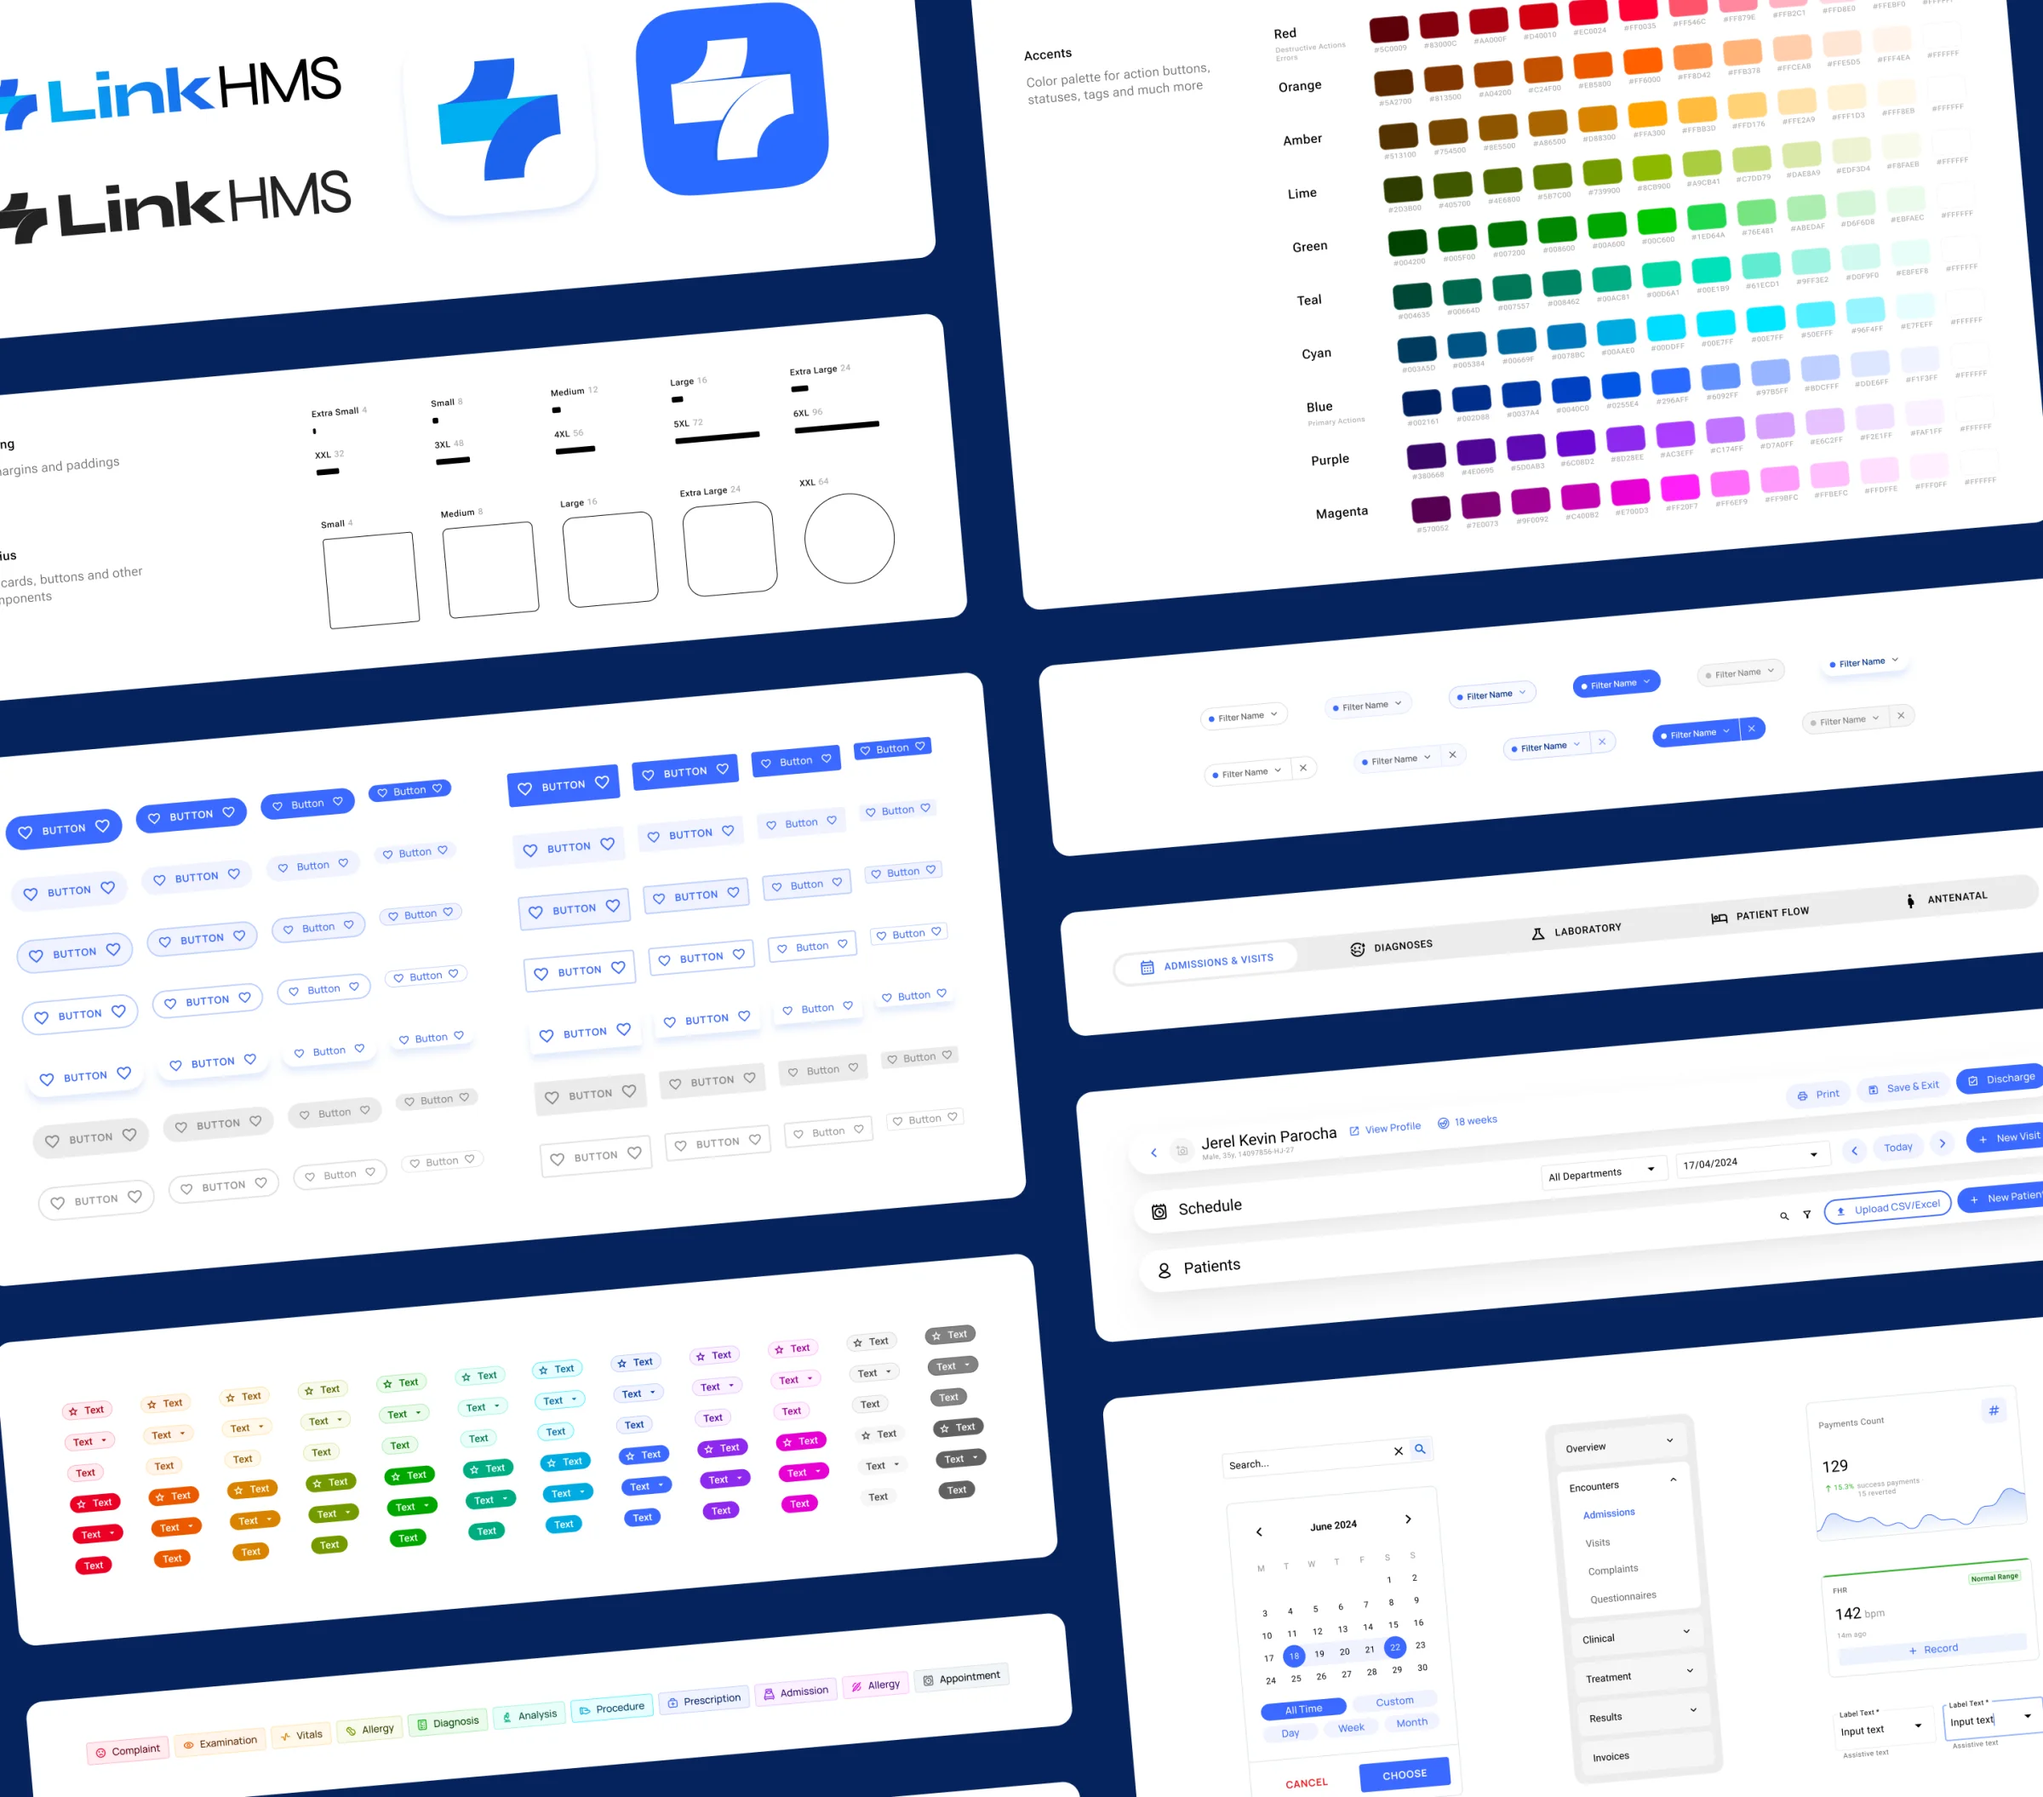
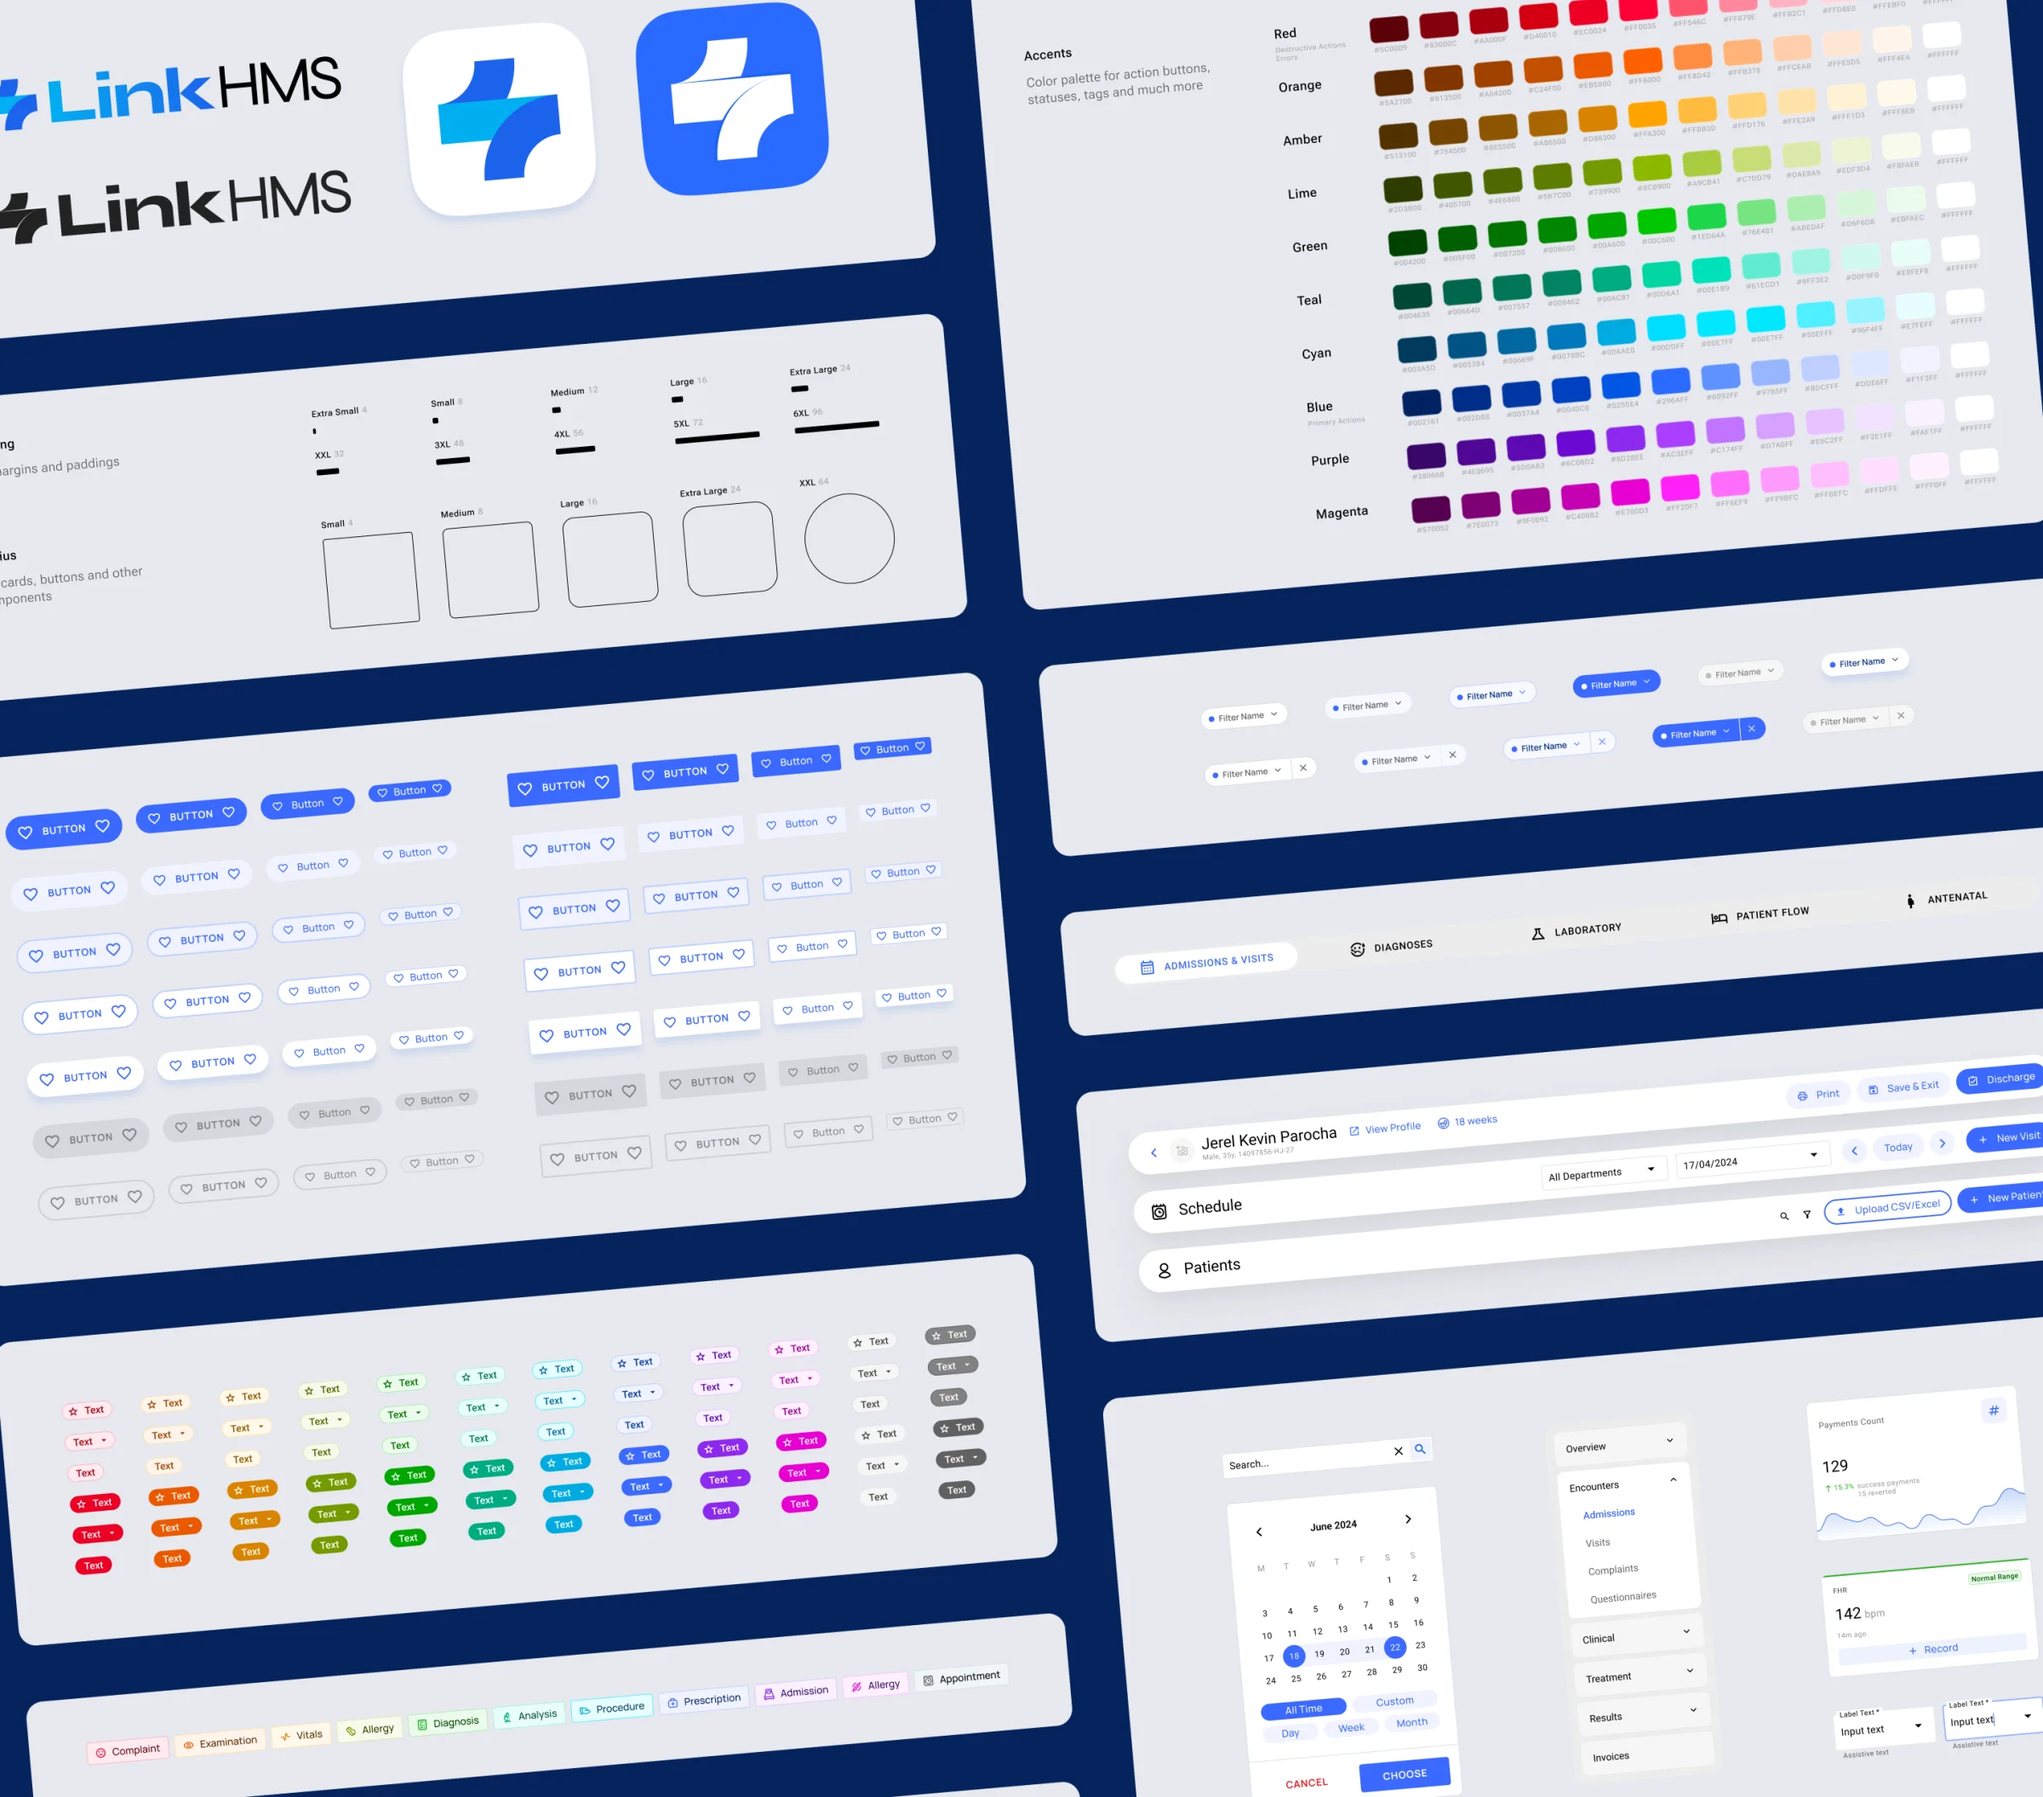
Case pages drop the big cover; LinkHMS brand image updated from Figma

diff --git a/src/content.config.ts b/src/content.config.ts
@@ -35,7 +35,7 @@ const cases = defineCollection({
       /**
        * Optional layers for a livelier cover on the home page: a blurred background and a
        * vector logo that move against each other on hover. `cover` stays the static composite
-       * (case page, social image). `logoWidth` is the logo's share of the cover width, in %.
+       * (social image). `logoWidth` is the logo's share of the cover width, in %.
        * `themed` makes the cover follow the site theme: the background gets a translucent white
        * veil and the logo turns black in the light theme, a black veil and a white logo in the
        * dark one. Give it a raw background then, with no darkening or lightening baked in.
